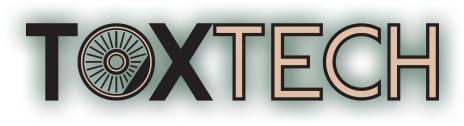
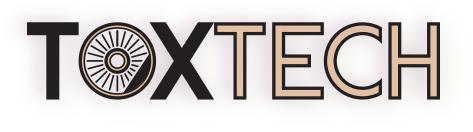
CHanged background
BG is now white
Text changed to suit
Minor copy amend.

diff --git a/style.css b/style.css
@@ -19,13 +19,13 @@ body
 	background-image: url("site_bg.jpg");
     background-repeat: no-repeat;
     background-position: top;
-    background-color: #30485b;
+    background-color: #dcdbdb;
 }
 
 h2
 {
 	text-align: center;
-	color: #913e7e;
+	color: #3e6c8f;
 	font-family: "Johnston";
 	font-size: 24px;
 	line-height: 16px;
@@ -33,7 +33,7 @@ h2
 
 p
 {
-	color: white;
+	color: #231f20;
 	font-family: "Ubuntu";
 	padding-top: 40px;
 }
@@ -52,7 +52,7 @@ a {
 
 .title
 {
-	width: 464px;
-	height: 126px;
-	padding-top: 168px;
+	width: 473px;
+	height: 132px;
+	padding-top: 165px;
 }

diff --git a/index.html b/index.html
@@ -25,7 +25,7 @@
 		<h2>07895786230</h2>
 
 		<p>
-			ToxTech is an established, professional Railway Training and Assessment provider. We offer approved Railway Training Courses and specialise in signal maintenance. Contact us for more details.
+			ToxTech is an established, professional Railway Training and Assessment provider. We offer on site Railway Training Courses. Contact us for more details.
 		</p>
 	</div>
 </body>
